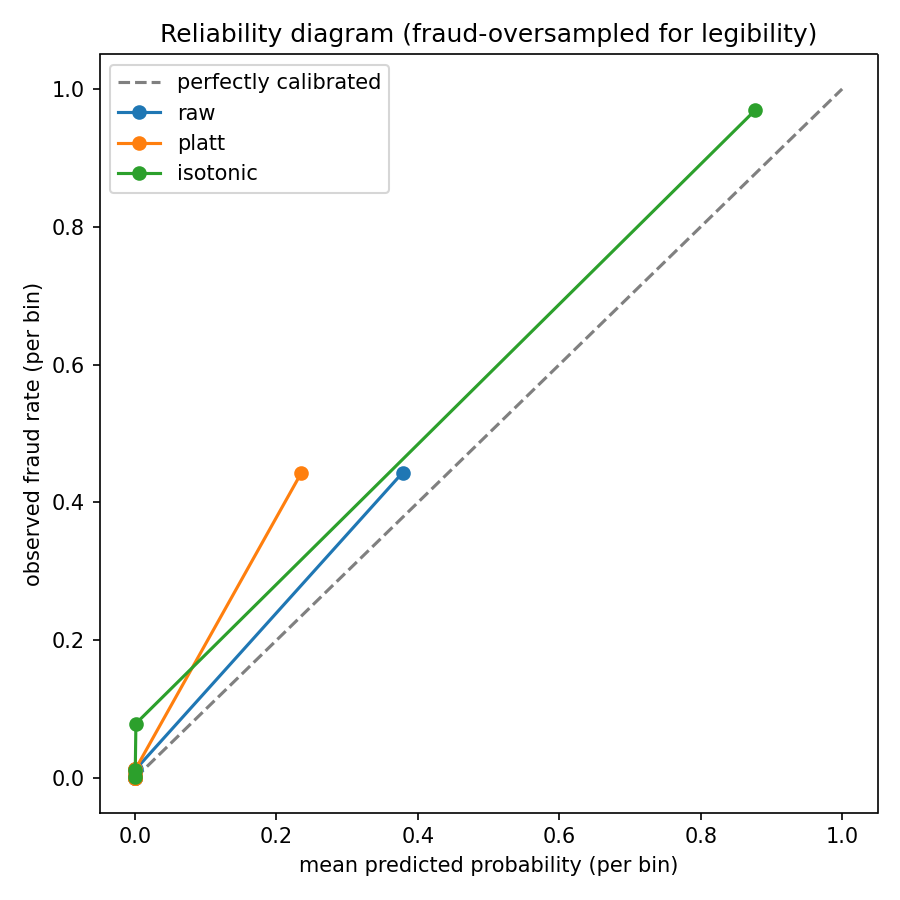
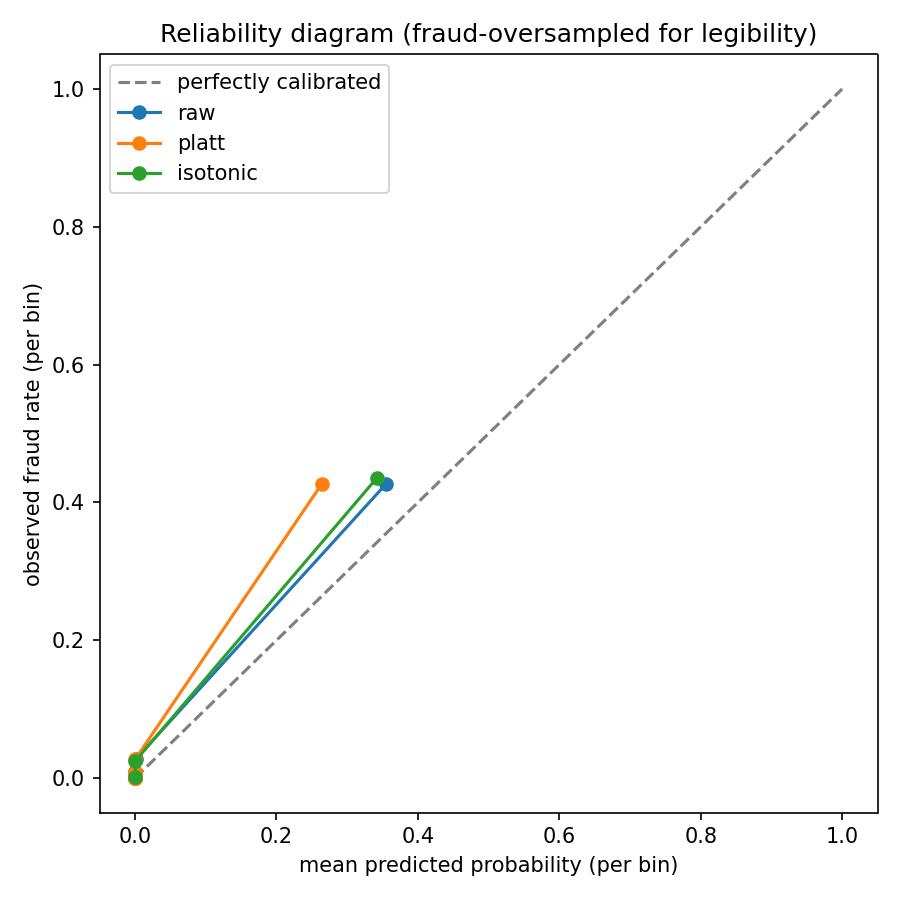
Fit calibrators and select threshold on val

diff --git a/src/models/run_calibration_analysis.py b/src/models/run_calibration_analysis.py
@@ -1,9 +1,9 @@
 """Does calibration change the cost-optimal threshold?
 
-Trains the class-weighted XGBoost model on the *first* portion of the training period only,
-holds out the *last* portion of the training period (chronologically after fit, before test) as
-a calibration set, fits Platt scaling and isotonic regression on it, then compares raw vs.
-calibrated Brier scores and cost-optimal thresholds on the real, untouched test set.
+Trains the class-weighted XGBoost model on the full training split, fits Platt scaling and
+isotonic regression on the validation split (the same split used for every other
+model-selection decision in this project), selects each method's cost-optimal threshold on
+validation too, then reports Brier score and cost for all three on the untouched test split.
 """
 
 from pathlib import Path
@@ -13,7 +13,6 @@ import mlflow
 import numpy as np
 import pandas as pd
 
-from src.data.ingest import chronological_split
 from src.features.pipeline import RAW_FEATURE_COLUMNS, TARGET_COLUMN
 from src.mlflow_utils import use_local_tracking_store
 from src.models.calibration import (
@@ -24,7 +23,7 @@ from src.models.calibration import (
     fit_platt_scaling,
     reliability_curve,
 )
-from src.models.cost_engine import DEFAULT_COST_FALSE_NEGATIVE, DEFAULT_COST_FALSE_POSITIVE, optimize_threshold
+from src.models.cost_engine import DEFAULT_COST_FALSE_NEGATIVE, DEFAULT_COST_FALSE_POSITIVE, expected_cost, optimize_threshold
 from src.models.imbalance_comparison import build_pipeline
 
 PROCESSED_DIR = Path(__file__).resolve().parents[2] / "data" / "processed"
@@ -41,46 +40,51 @@ def main() -> None:
     mlflow.set_experiment("fraud-detection-calibration")
 
     X_train, y_train = _load_split("train")
+    X_val, y_val = _load_split("val")
     X_test, y_test = _load_split("test")
 
-    # carve a calibration slice out of the *end* of the training period, so it's still fully
-    # chronologically before the test set and never touches it
-    train_df = X_train.copy()
-    train_df[TARGET_COLUMN] = y_train.values
-    fit_df, calib_df = chronological_split(train_df, test_size=0.15)
-    X_fit, y_fit = fit_df[RAW_FEATURE_COLUMNS], fit_df[TARGET_COLUMN]
-    X_calib, y_calib = calib_df[RAW_FEATURE_COLUMNS], calib_df[TARGET_COLUMN]
-
     pipeline = build_pipeline("class_weight")
-    n_pos, n_neg = int(y_fit.sum()), len(y_fit) - int(y_fit.sum())
+    n_pos, n_neg = int(y_train.sum()), len(y_train) - int(y_train.sum())
     pipeline.set_params(classifier__scale_pos_weight=n_neg / n_pos)
-    pipeline.fit(X_fit, y_fit)
+    pipeline.fit(X_train, y_train)
 
-    calib_proba = pipeline.predict_proba(X_calib)[:, 1]
+    val_proba_raw = pipeline.predict_proba(X_val)[:, 1]
+    y_val_arr = y_val.to_numpy()
     test_proba_raw = pipeline.predict_proba(X_test)[:, 1]
     y_test_arr = y_test.to_numpy()
 
-    platt_model = fit_platt_scaling(calib_proba, y_calib.to_numpy())
+    platt_model = fit_platt_scaling(val_proba_raw, y_val_arr)
+    val_proba_platt = apply_platt_scaling(platt_model, val_proba_raw)
     test_proba_platt = apply_platt_scaling(platt_model, test_proba_raw)
 
-    iso_model = fit_isotonic(calib_proba, y_calib.to_numpy())
+    iso_model = fit_isotonic(val_proba_raw, y_val_arr)
+    val_proba_iso = apply_isotonic(iso_model, val_proba_raw)
     test_proba_iso = apply_isotonic(iso_model, test_proba_raw)
 
     with mlflow.start_run(run_name="calibration_comparison"):
         results = {}
-        for name, proba in [("raw", test_proba_raw), ("platt", test_proba_platt), ("isotonic", test_proba_iso)]:
-            brier = brier_score(y_test_arr, proba)
+        methods = [
+            ("raw", val_proba_raw, test_proba_raw),
+            ("platt", val_proba_platt, test_proba_platt),
+            ("isotonic", val_proba_iso, test_proba_iso),
+        ]
+        for name, val_proba, test_proba in methods:
+            # threshold selected on val, cost reported on test
             sweep = optimize_threshold(
-                y_test_arr, proba, cost_fn=DEFAULT_COST_FALSE_NEGATIVE, cost_fp=DEFAULT_COST_FALSE_POSITIVE
+                y_val_arr, val_proba, cost_fn=DEFAULT_COST_FALSE_NEGATIVE, cost_fp=DEFAULT_COST_FALSE_POSITIVE
             )
+            test_cost = expected_cost(
+                y_test_arr, test_proba, sweep.optimal_threshold, DEFAULT_COST_FALSE_NEGATIVE, DEFAULT_COST_FALSE_POSITIVE
+            )
+            brier = brier_score(y_test_arr, test_proba)
             results[name] = {
                 "brier_score": brier,
                 "optimal_threshold": sweep.optimal_threshold,
-                "optimal_cost": sweep.optimal_cost,
+                "test_cost": test_cost,
             }
             mlflow.log_metric(f"{name}_brier_score", brier)
             mlflow.log_metric(f"{name}_optimal_threshold", sweep.optimal_threshold)
-            mlflow.log_metric(f"{name}_optimal_cost", sweep.optimal_cost)
+            mlflow.log_metric(f"{name}_test_cost", test_cost)
 
         # quantile-binning the full, severely-imbalanced test set collapses almost every bin
         # near zero (fraud is 0.17% of rows), which makes the plot uninformative even though
@@ -109,9 +113,9 @@ def main() -> None:
         plt.close()
         mlflow.log_artifact(str(plot_path))
 
-        print(f"{'method':10} {'brier':>10} {'threshold':>10} {'cost':>12}")
+        print(f"{'method':10} {'brier':>10} {'threshold':>10} {'test cost':>12}")
         for name, r in results.items():
-            print(f"{name:10} {r['brier_score']:10.5f} {r['optimal_threshold']:10.3f} {r['optimal_cost']:12,.2f}")
+            print(f"{name:10} {r['brier_score']:10.5f} {r['optimal_threshold']:10.3f} {r['test_cost']:12,.2f}")
 
 
 if __name__ == "__main__":
